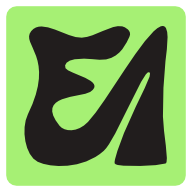
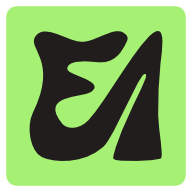
deploy: 5e3c3dd57040a3025ed4c11384edc63ec1f42014

diff --git a/sw.js b/sw.js
@@ -1,1 +1,1 @@
-if(!self.define){let e,i={};const n=(n,s)=>(n=new URL(n+".js",s).href,i[n]||new Promise(i=>{if("document"in self){const e=document.createElement("script");e.src=n,e.onload=i,document.head.appendChild(e)}else e=n,importScripts(n),i()}).then(()=>{let e=i[n];if(!e)throw new Error(`Module ${n} didn’t register its module`);return e}));self.define=(s,r)=>{const t=e||("document"in self?document.currentScript.src:"")||location.href;if(i[t])return;let o={};const d=e=>n(e,t),l={module:{uri:t},exports:o,require:d};i[t]=Promise.all(s.map(e=>l[e]||d(e))).then(e=>(r(...e),o))}}define(["./workbox-8c29f6e4"],function(e){"use strict";self.skipWaiting(),e.clientsClaim(),e.precacheAndRoute([{url:"registerSW.js",revision:"1872c500de691dce40960bb85481de07"},{url:"index.html",revision:"89435b9e3f1366701a08d41c175929e5"},{url:"assets/index-DQOun-to.css",revision:null},{url:"assets/index-BJYIWpzt.js",revision:null},{url:"pwa-192x192.png",revision:"f2071d8e91065e5b1dbda8770611556a"},{url:"pwa-512x512.png",revision:"7cb792d26fde0d397625b4b21d4e49a7"},{url:"manifest.webmanifest",revision:"8463c9a3adbeb8327d9ae5dc551632d9"}],{}),e.cleanupOutdatedCaches(),e.registerRoute(new e.NavigationRoute(e.createHandlerBoundToURL("index.html")))});
+if(!self.define){let e,i={};const n=(n,s)=>(n=new URL(n+".js",s).href,i[n]||new Promise(i=>{if("document"in self){const e=document.createElement("script");e.src=n,e.onload=i,document.head.appendChild(e)}else e=n,importScripts(n),i()}).then(()=>{let e=i[n];if(!e)throw new Error(`Module ${n} didn’t register its module`);return e}));self.define=(s,r)=>{const t=e||("document"in self?document.currentScript.src:"")||location.href;if(i[t])return;let o={};const d=e=>n(e,t),l={module:{uri:t},exports:o,require:d};i[t]=Promise.all(s.map(e=>l[e]||d(e))).then(e=>(r(...e),o))}}define(["./workbox-8c29f6e4"],function(e){"use strict";self.skipWaiting(),e.clientsClaim(),e.precacheAndRoute([{url:"registerSW.js",revision:"1872c500de691dce40960bb85481de07"},{url:"index.html",revision:"89435b9e3f1366701a08d41c175929e5"},{url:"assets/index-DQOun-to.css",revision:null},{url:"assets/index-BJYIWpzt.js",revision:null},{url:"pwa-192x192.png",revision:"a0e22adc09cac33050e3a58835adae55"},{url:"pwa-512x512.png",revision:"b85e289a4b8f7b2c7b540daa2ff31f8d"},{url:"manifest.webmanifest",revision:"8463c9a3adbeb8327d9ae5dc551632d9"}],{}),e.cleanupOutdatedCaches(),e.registerRoute(new e.NavigationRoute(e.createHandlerBoundToURL("index.html")))});
